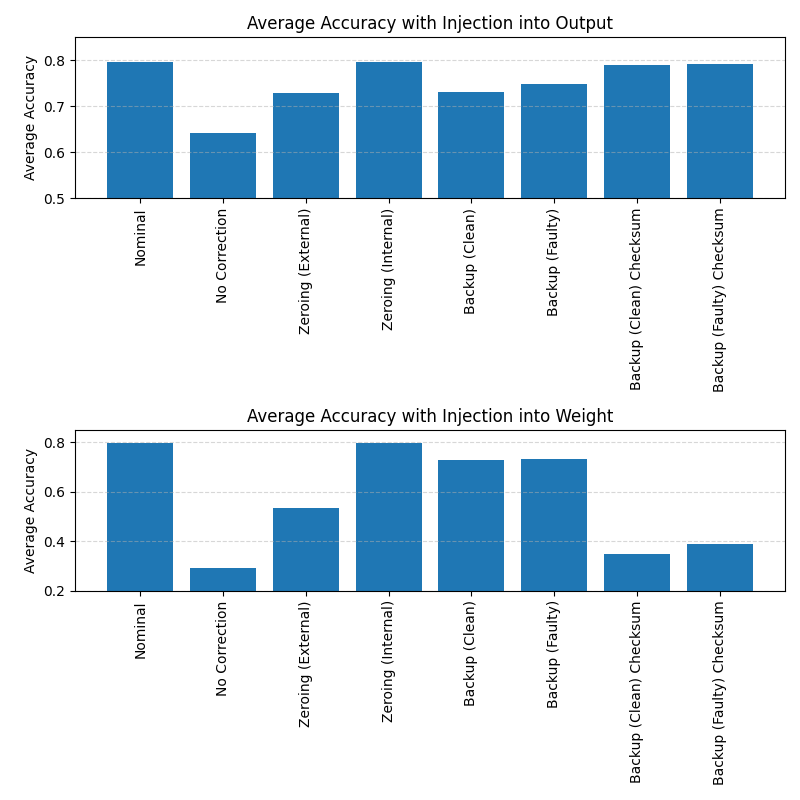
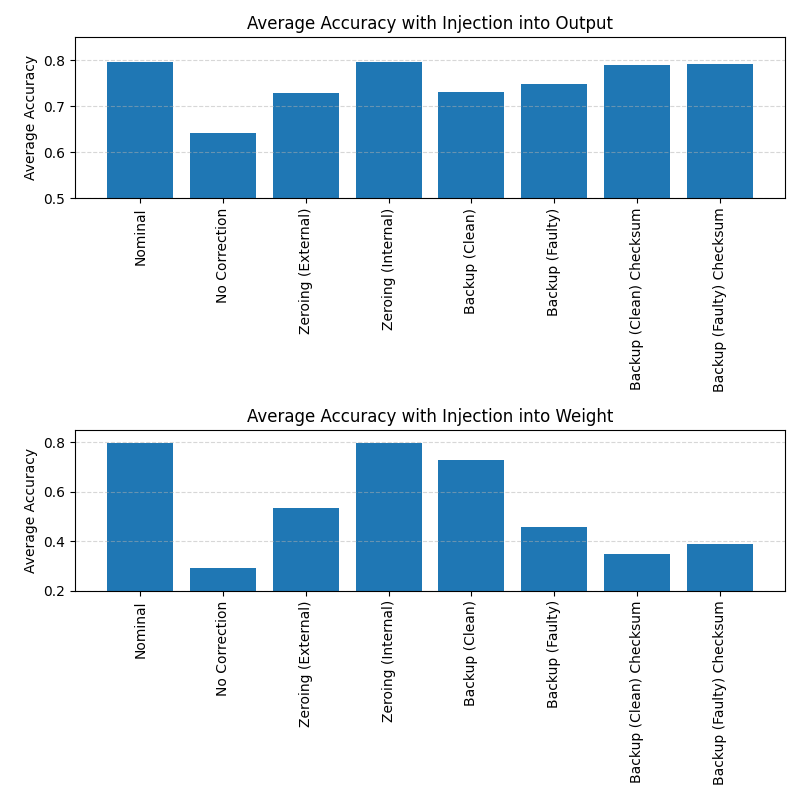
fix s4 stats

Changed region(s): [[0.625, 0.5625, 0.75, 0.6562]]

diff --git a/cifar-classifier.py b/cifar-classifier.py
@@ -229,18 +229,18 @@ def checksum_verify(left, right, epsilon=1e-4, inject=False, error_rate=1e-3, is
     left_cs = col_checksum(left)
     right_cs = row_checksum(right)
 
-    if is_pruned:
-        zeros_mask = torch.isclose(right_cs, torch.zeros_like(right_cs))
+    # if is_pruned:
+    #     zeros_mask = torch.isclose(right_cs, torch.zeros_like(right_cs))
 
-    if inject:
-        right_cs, _ = flip_bits(right_cs, error_rate=error_rate)
-        if is_pruned:
-            right_cs[zeros_mask] = 0
+    # if inject:
+    #     right_cs, _ = flip_bits(right_cs, error_rate=error_rate)
+    #     if is_pruned:
+    #         right_cs[zeros_mask] = 0
 
     prod_cs = left_cs @ right_cs
 
-    # if inject:
-    #     prod_cs, _ = flip_bits(prod_cs, error_rate=error_rate)
+    if inject:
+        prod_cs, _ = flip_bits(prod_cs, error_rate=error_rate)
 
     output = prod_cs[:-1, :-1]
     row_sum_check = prod_cs[:-1, -1]
@@ -910,7 +910,7 @@ if __name__ == '__main__':
 
                 u_t = z[:, :, t]                 # (B, input_dim)
 
-                model_state, mask = model.ssm.hidden_update(model_state, u_t, inject=True, error_rate=5e-5)
+                model_state, mask = model.ssm.hidden_update(model_state, u_t, inject=True, error_rate=1e-3)
                 quant_state, quant_mask = quantized_ssm.hidden_update(quant_state, u_t, inject=False, error_rate=5e-5)
 
                 model_state = nan_checker(model_state)

diff --git a/simple-classifier.py b/simple-classifier.py
@@ -758,7 +758,7 @@ if __name__ == "__main__":
 
                 u_t = x[:, t, :]
                 quantized_state, quant_mask = quantized_ssm.hidden_update(quantized_state, u_t, inject=True, error_rate=5e-5)
-                model_state, _ = model.ssm.hidden_update(model_state, u_t, inject=True, error_rate=5e-5)
+                model_state, _ = model.ssm.hidden_update(model_state, u_t, inject=False, error_rate=5e-5)
 
                 model_state = nan_checker(model_state)
                 quantized_state = nan_checker(quantized_state)

diff --git a/data-collection.py b/data-collection.py
@@ -38,7 +38,7 @@ faulty_no_corr_vals = [0.2764, 0.2988, 0.3037]
 faulty_ext_vals = [0.5522, 0.5139, 0.5368]
 faulty_int_vals = [0.7963, 0.7971, 0.7967]
 backup_clean_vals = [0.7291, 0.7308, 0.7299]
-backup_faulty_vals = [0.7351, 0.7303, 0.7301]
+backup_faulty_vals = [0.4112, 0.4836, 0.4703]
 backup_clean_checksum_vals = [0.3884, 0.3045, 0.3468]
 backup_faulty_checksum_vals = [0.3748, 0.4461, 0.3417]
 
